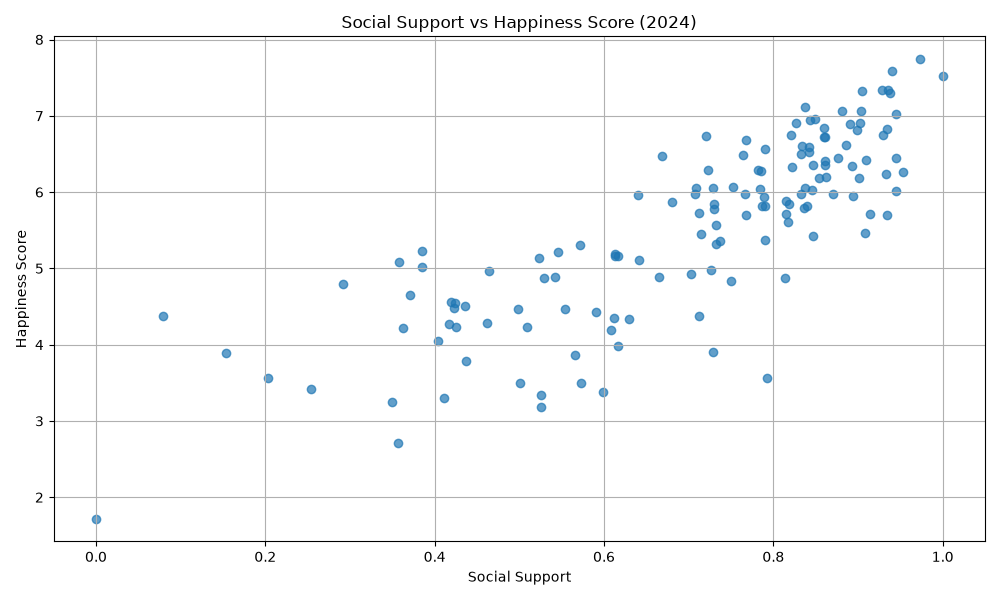
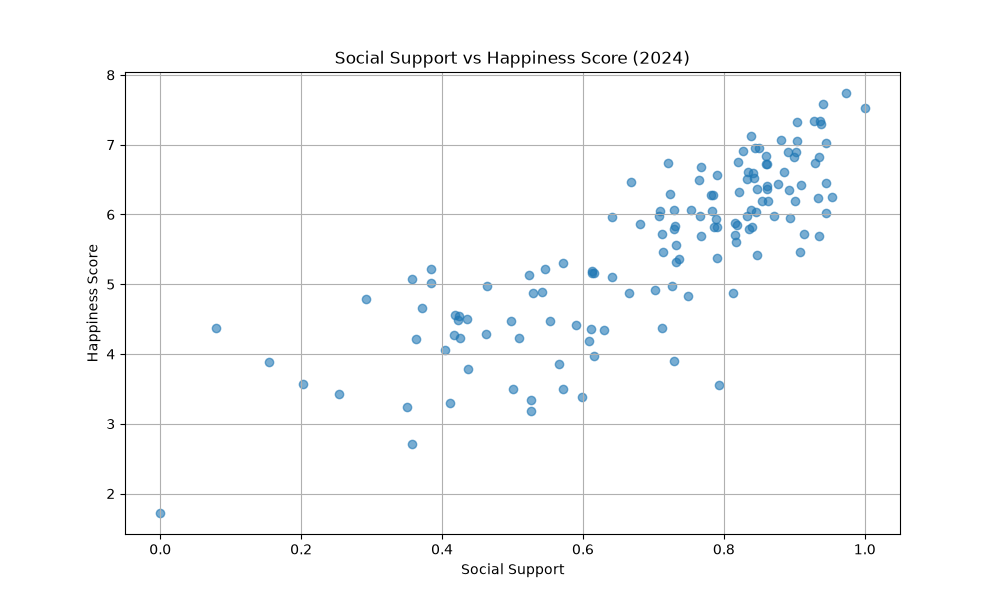
Address Assignment 7 review feedback

diff --git a/assignments_07/project_07.py b/assignments_07/project_07.py
@@ -1,18 +1,26 @@
 import matplotlib
 matplotlib.use("Agg")
+
 from pathlib import Path
 import os
+
 from dotenv import load_dotenv
 import pandas as pd
 from scipy.stats import pearsonr
 from smolagents import CodeAgent, OpenAIServerModel, tool
 
+
 # --- Task 1 ---
 
 df = None
 
-DATA_PATH = Path("../assignments_01/outputs/merged_happiness.csv")
-FALLBACK_DIR = Path("../assignments/resources/happiness_project/")
+BASE_DIR = Path(__file__).resolve().parent
+REPO_ROOT = BASE_DIR.parent
+
+df = None
+
+DATA_PATH = REPO_ROOT / "assignments_01/outputs/merged_happiness.csv"
+FALLBACK_DIR = REPO_ROOT / "assignments/resources/happiness_project"
 
 
 @tool
@@ -94,7 +102,10 @@ def compute_correlation(col1: str, col2: str) -> dict:
     if col1 not in df.columns or col2 not in df.columns:
         return {"error": "One or both columns were not found."}
 
-    if not pd.api.types.is_numeric_dtype(df[col1]) or not pd.api.types.is_numeric_dtype(df[col2]):
+    if (
+        not pd.api.types.is_numeric_dtype(df[col1])
+        or not pd.api.types.is_numeric_dtype(df[col2])
+    ):
         return {"error": "Both columns must be numeric."}
 
     clean_data = df[[col1, col2]].dropna()
@@ -102,7 +113,10 @@ def compute_correlation(col1: str, col2: str) -> dict:
     if len(clean_data) < 2:
         return {"error": "Not enough valid data to compute correlation."}
 
-    pearson_r, p_value = pearsonr(clean_data[col1], clean_data[col2])
+    pearson_r, p_value = pearsonr(
+        clean_data[col1],
+        clean_data[col2],
+    )
 
     return {
         "col1": col1,
@@ -113,7 +127,11 @@ def compute_correlation(col1: str, col2: str) -> dict:
 
 
 @tool
-def get_top_n_countries(column: str, year: int, n: int = 5) -> list[dict] | dict:
+def get_top_n_countries(
+    column: str,
+    year: int,
+    n: int = 5,
+) -> list[dict] | dict:
     """Return the top N countries for a column in a specific year.
 
     Args:
@@ -158,10 +176,9 @@ def get_top_n_countries(column: str, year: int, n: int = 5) -> list[dict] | dict
 load_dotenv()
 api_key = os.getenv("OPENAI_API_KEY")
 
-
 model = OpenAIServerModel(
     api_key=api_key,
-    model_id="gpt-4o-mini"
+    model_id="gpt-4o-mini",
 )
 
 
@@ -171,6 +188,7 @@ Use the available tools for loading data, summarizing columns, computing correla
 and ranking countries. Write Python code directly only when the tools are not sufficient
 (for example, when creating custom plots or computing something the tools don't cover).
 Be concise and student-friendly in your responses.
+"When writing Python code for analysis or plotting, use the preloaded DataFrame named happiness_df. Do not create simulated or placeholder data."
 """
 
 
@@ -188,11 +206,15 @@ agent = CodeAgent(
         "matplotlib.pyplot",
         "scipy.stats",
         "os",
-],
+    ],
     max_steps=8,
 )
 
+
 if __name__ == "__main__":
+
+    # Run relative output paths from the Assignment 7 folder.
+    os.chdir(BASE_DIR)
 
     # --- Task 3 ---
 
@@ -204,57 +226,57 @@ if __name__ == "__main__":
         "Plot happiness_score over the years as a line chart, with one line per region. Save the plot to outputs/happiness_by_region.png.",
     ]
 
-    # Run the first query so the data is loaded.
-    print(f"\n--- Query: {queries[0]} ---")
-    response = agent.run(queries[0], reset=False)
-    print(response)
-
-    # Run the remaining queries with the loaded DataFrame.
-    for query in queries[1:]:
+    # Load the DataFrame and make it available to the CodeAgent's Python executor.
+    load_happiness_data()
+    agent.python_executor.send_variables({"happiness_df": df})
+    for query in queries:
         print(f"\n--- Query: {query} ---")
-        response = agent.run(
-            query,
-            reset=False,
-            additional_args={"df": df},
-        )
+        response = agent.run(query, reset=False)
         print(response)
 
 
     # --- Task 4 ---
 
     # My query 1
-    my_query_1 = "Which 5 countries had the highest healthy life expectancy in 2019?"
+    my_query_1 = (
+        "Which 5 countries had the highest healthy life expectancy in 2019?"
+    )
+
     response_1 = agent.run(
         my_query_1,
         reset=False,
-        additional_args={"df": df},
     )
+
     print(response_1)
-    # Comment: This triggered code generation to find the top 5 countries.
+
+    # Comment: This triggered tool use with get_top_n_countries, not code generation.
+
 
     # My query 2
     my_query_2 = (
         "Create a scatter plot comparing social support and happiness score for 2024. "
         "Save it to outputs/social_support_vs_happiness.png."
     )
+
     response_2 = agent.run(
         my_query_2,
         reset=False,
-        additional_args={"df": df},
     )
+
     print(response_2)
-    # Comment: This triggered code generation to create and save the scatter plot.
+
+    # Comment: This triggered code generation, not tool use.
 
 
-# --- Reflection ---
-#
-# 1. The agent said the correlation was statistically significant because the
-#    p-value was 0.0. It used the p-value correctly, but it did not clearly state
-#    the threshold. A common threshold for significance is 0.05.
-#
-# 2. I was surprised that the agent could create plots by writing its own code.
-#    For example, it created and saved a scatter plot without using a plotting tool.
-#
-# 3. I would add a tool that compares a country across different years.
-#    It could show how happiness scores changed over time and help find which
-#    countries improved or declined the most.
+    # --- Task 5: Reflection ---
+    #
+    # 1. The agent said the correlation was statistically significant because the
+    #    p-value was 0.0. It used the p-value correctly, but it did not clearly state
+    #    the threshold. A common threshold for significance is 0.05.
+    #
+    # 2. I was surprised that the agent could create plots by writing its own code.
+    #    For example, it created and saved a scatter plot without using a plotting tool.
+    #
+    # 3. I would add a tool that compares a country across different years.
+    #    It could show how happiness scores changed over time and help find which
+    #    countries improved or declined the most.

diff --git a/assignments_07/warmup_07.py b/assignments_07/warmup_07.py
@@ -15,17 +15,20 @@ def celsius_to_fahrenheit(celsius: float) -> str:
 
 
 celsius_to_fahrenheit_schema = {
-    "name": "celsius_to_fahrenheit",
-    "description": "Convert a Celsius temperature to Fahrenheit.",
-    "parameters": {
-        "type": "object",
-        "properties": {
-            "celsius": {
-                "type": "number",
-                "description": "The temperature in Celsius."
-            }
-        },
-        "required": ["celsius"]
+    "type": "function",
+    "function": {
+        "name": "celsius_to_fahrenheit",
+        "description": "Convert a Celsius temperature to Fahrenheit.",
+        "parameters": {
+            "type": "object",
+            "properties": {
+                "celsius": {
+                    "type": "number",
+                    "description": "The temperature in Celsius."
+                }
+            },
+            "required": ["celsius"]
+        }
     }
 }
 
@@ -137,7 +140,6 @@ def run_agent(user_prompt: str) -> str:
 
     return first_message.content or ''
 
-
 # Prediction:
 # I do not think this will trigger a tool call because the only tool
 # available is get_current_time, which is not needed for temperature conversion.
@@ -146,7 +148,8 @@ def run_agent(user_prompt: str) -> str:
 result = run_agent("Convert 100 degrees Celsius to Fahrenheit")
 print(result)
 
-# My prediction was correct because the agent did not use a tool
+# Actual result:
+# My prediction was correct. The agent did not use a tool
 # and only made one API call.
 
 
@@ -165,10 +168,7 @@ tools = [
             },
         },
     },
-    {
-        'type': 'function',
-        'function': celsius_to_fahrenheit_schema,
-    },
+    celsius_to_fahrenheit_schema,
 ]
 
 
@@ -250,14 +250,14 @@ def run_agent(user_prompt: str) -> str:
 response_a = run_agent("What is 37 degrees Celsius in Fahrenheit?")
 print("Response A:", response_a)
 # The agent called celsius_to_fahrenheit because the question asked
-# for a Celsius to Fahrenheit conversion.
+# for a temperature conversion that matched the available conversion tool.
 
 
 
 response_b = run_agent("What is the boiling point of water in plain English?")
 print("Response B:", response_b)
-# The agent did not call a tool because it could answer the question
-# directly without using either tool.
+# The agent did not call a tool because it could answer the boiling point
+# question directly. Neither available tool was needed for the response.
 
 
 
